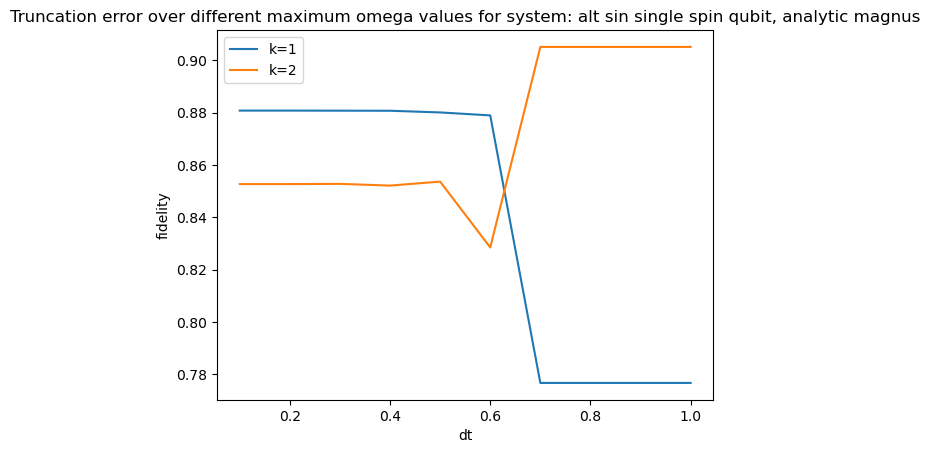
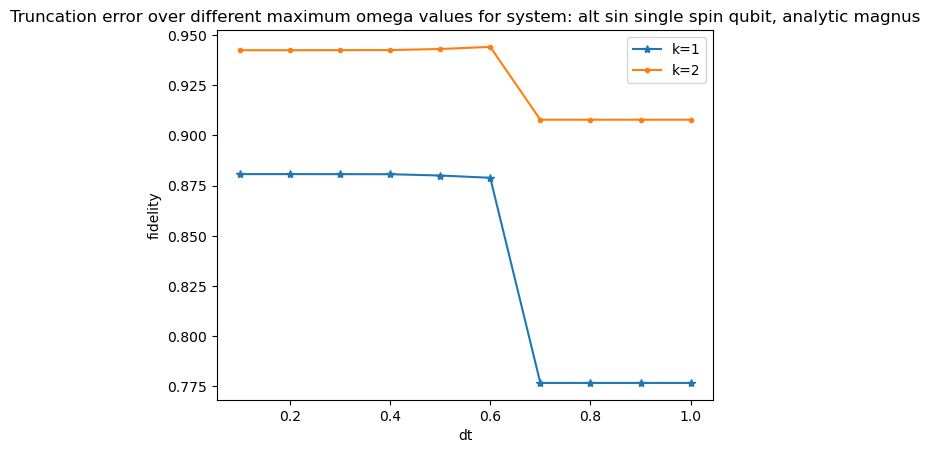
shifted gaussian

diff --git a/experiments.py b/experiments.py
@@ -111,9 +111,9 @@ experiments = [
     Experiment(
         name="truncation omega and dt",
         systems=[
-            hermitian_functions.single_spin_qubit_system,
+            hermitian_functions.ssq_shifted_system,
             hermitian_functions.alt_sin_ssq_system,
-            hermitian_functions.two_spin_qubit_system
+            hermitian_functions.tsq_shifted_system
         ],
         simulators=[
             Simulator(
@@ -126,7 +126,7 @@ experiments = [
             )
         ],
         indep_var="dt",
-        indep_var_range=[1, 9e-1, 8e-1, 7e-1, 6e-1, 5e-1, 4e-1, 3e-1, 2e-1, 1e-1],
+        indep_var_range= [1, .9, .8, .7, .6, .5, .4, .3, .2, .1],
         # Pass any variables you want to be passed to all simulators here:
         const_vars={"t_start": 0, "t": 2}
     ),
@@ -195,13 +195,14 @@ def plot_truncation_omegas(experiment, ground_truths):
         for system in simulator_results:
             system_results = simulator_results.get(system)
             k_values = len(system_results[0])
+            markers = ['*', '.', 'x']
             for max_omega in range(1, k_values + 1):
                 key = "k=" + str(max_omega)
                 fidelities = []
                 for dt_res in system_results:
                     fidelities.append(dt_res.get(key))
                 print(simulator + key + str(fidelities))
-                plt.plot(dts, fidelities, label=key)
+                plt.plot(dts, fidelities, label=key, marker=markers[max_omega-1])
             plt.legend()
             plt.xlabel("dt")
             plt.ylabel("fidelity")
@@ -236,6 +237,19 @@ ground_truths = {"single spin qubit": [[-0.40680456 - 0.88888417j, -0.19159047 +
                                     [-0.00921961 + 0.03578977j, 0.15624935 - 0.05410286j, 0.15624935 - 0.05410286j,
                                      -0.42536777 - 0.87350815j]]}
 
+ground_truths_shifted = {"single spin qubit": [[-0.3290767 -0.71904284j, -0.55659709+0.25473096j],
+                                                [-0.55659709+0.25473096j, -0.3290767 -0.71904284j]],
+                         "alt sin single spin qubit": [[-0.73582847 - 0.46178757j, -0.30887546 - 0.38717933j],
+                                                       [0.30887546 - 0.38717933j, -0.73582847 + 0.46178757j]],
+                         "two spin qubit": [[-0.55430206-0.67417283j,  0.16989756-0.23037152j,  0.16989756-0.23037152j,
+                                              -0.1381539 +0.23512509j],
+                                             [-0.16989756-0.23037152j, -0.55430206+0.67417283j, -0.1381539 -0.23512509j,
+                                              -0.16989756-0.23037152j],
+                                             [-0.16989756-0.23037152j, -0.1381539 -0.23512509j, -0.55430206+0.67417283j,
+                                              -0.16989756-0.23037152j],
+                                             [-0.1381539 +0.23512509j,  0.16989756-0.23037152j,  0.16989756-0.23037152j,
+                                              -0.55430206-0.67417283j]]}
+
 if __name__ == "__main__":
-    plot_truncation_omegas(experiments[0], ground_truths)
+    plot_truncation_omegas(experiments[0], ground_truths_shifted)
 # %%

diff --git a/hermitian_functions.py b/hermitian_functions.py
@@ -30,6 +30,10 @@ def b_t(t):
     return 0.5 * np.exp(-(t - 2.5) ** 2)
 
 
+def b_t_shifted(t):
+    return 0.5 * np.exp(-((t+1) - 2.5) ** 2)
+
+
 def sin_t(t):
     return np.sin(t)
 
@@ -57,7 +61,14 @@ alt_sin_ssq_system = ConstantMatrixHermitian("alt sin single spin qubit", sigma_
 two_spin_qubit_system = ConstantMatrixHermitian("two spin qubit", np.kron(sigma_z, sigma_z), b_t,
                                                 np.kron(sigma_x, I_2) + np.kron(I_2, sigma_x))
 
+tsq_shifted_system = ConstantMatrixHermitian("two spin qubit", np.kron(sigma_z, sigma_z), b_t_shifted,
+                                                np.kron(sigma_x, I_2) + np.kron(I_2, sigma_x))
+
+ssq_shifted_system =  ConstantMatrixHermitian("single spin qubit", I_2, b_t_shifted, sigma_x)
+
 single_spin_qubit = single_spin_qubit_system.at_t
 two_spin_qubits = two_spin_qubit_system.at_t
 alt_ssq = alt_ssq_system.at_t
 alt_sin_ssq = alt_sin_ssq_system.at_t
+tsq_shifted = tsq_shifted_system.at_t
+ssq_shifted = ssq_shifted_system.at_t

diff --git a/comparing_expansions.py b/comparing_expansions.py
@@ -37,7 +37,7 @@ def fidelity_over_dts(max_omega, max_t, ground_truth, hermitian, dts: list, verb
 
 if __name__ == '__main__':
     max_t = 2.
-    system = hermitian_functions.alt_sin_ssq
+    system = hermitian_functions.two_spin_qubits
     segmentation_needed = not(magnus_convergence(system, max_t))
     print("Series convergence for max_t: ", not(segmentation_needed))
     # ground_truth_alt_sin, _ = naive_simulation(hermitian_functions.alt_sin_ssq, max_t, 0.0001)
